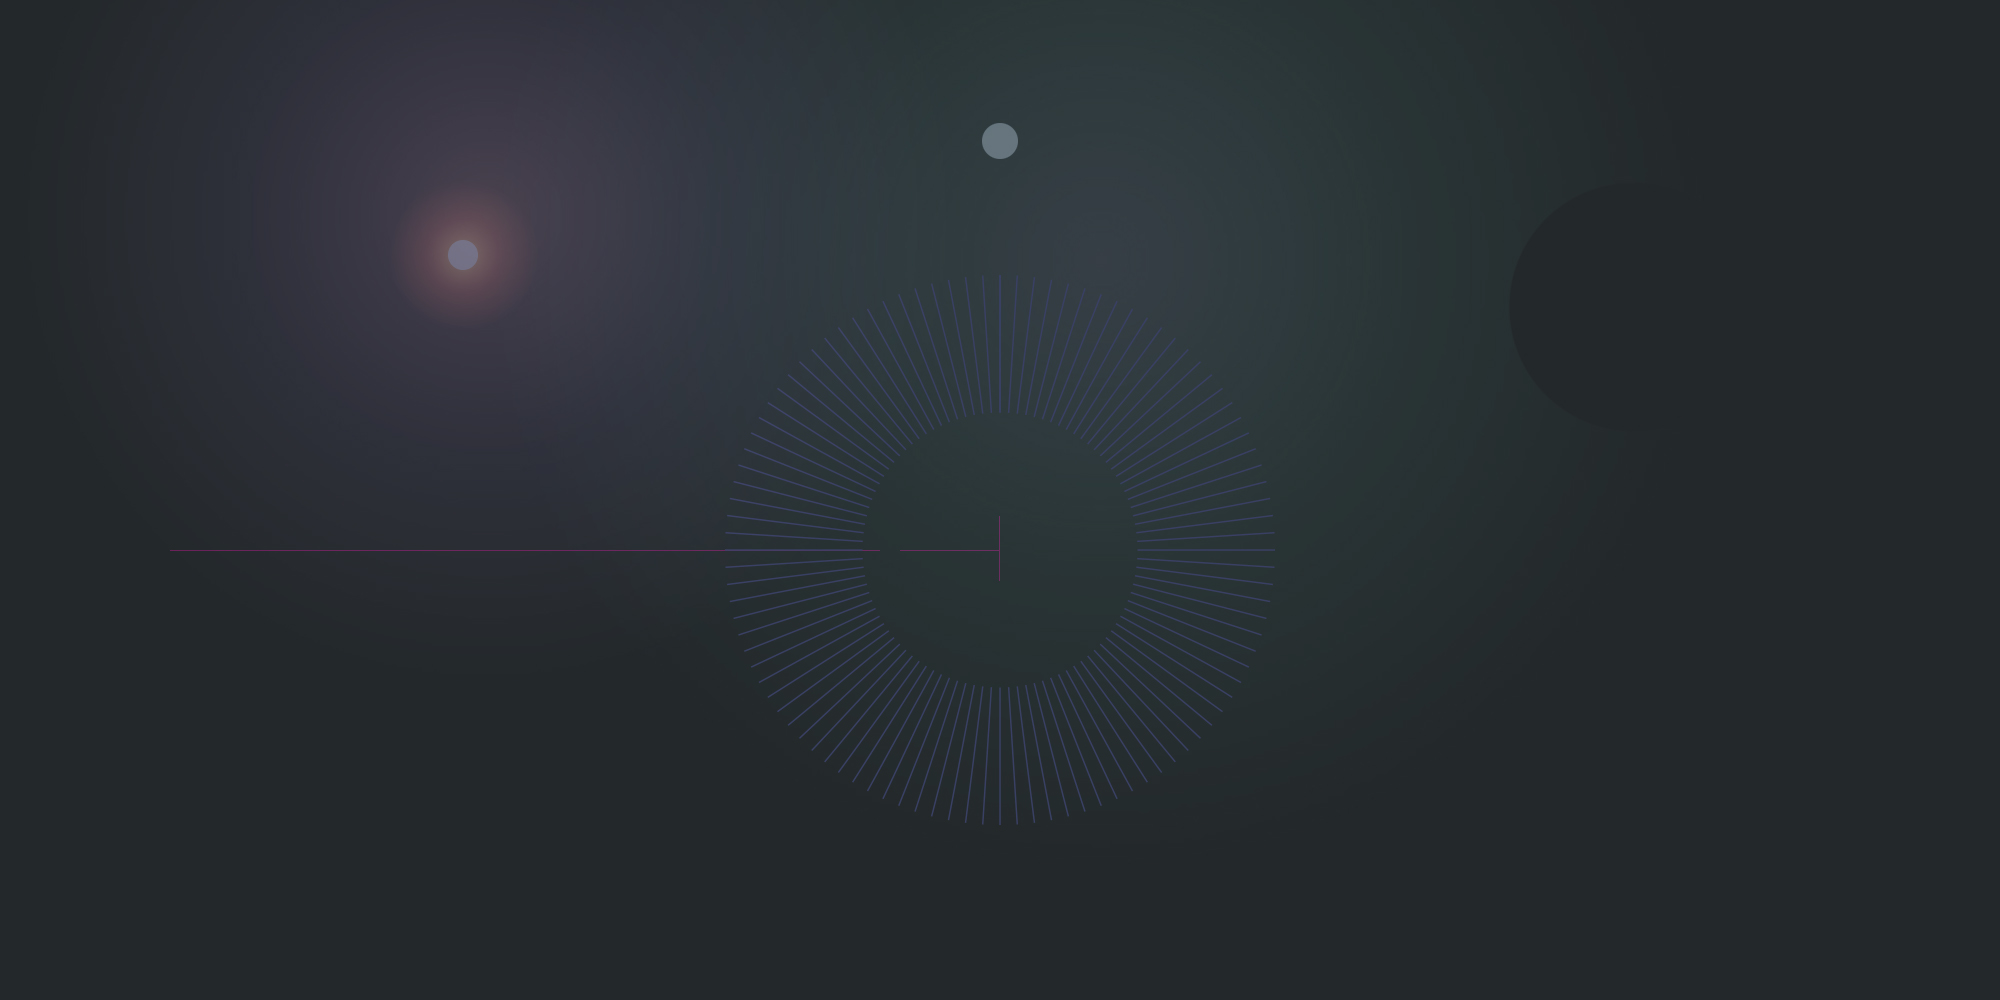
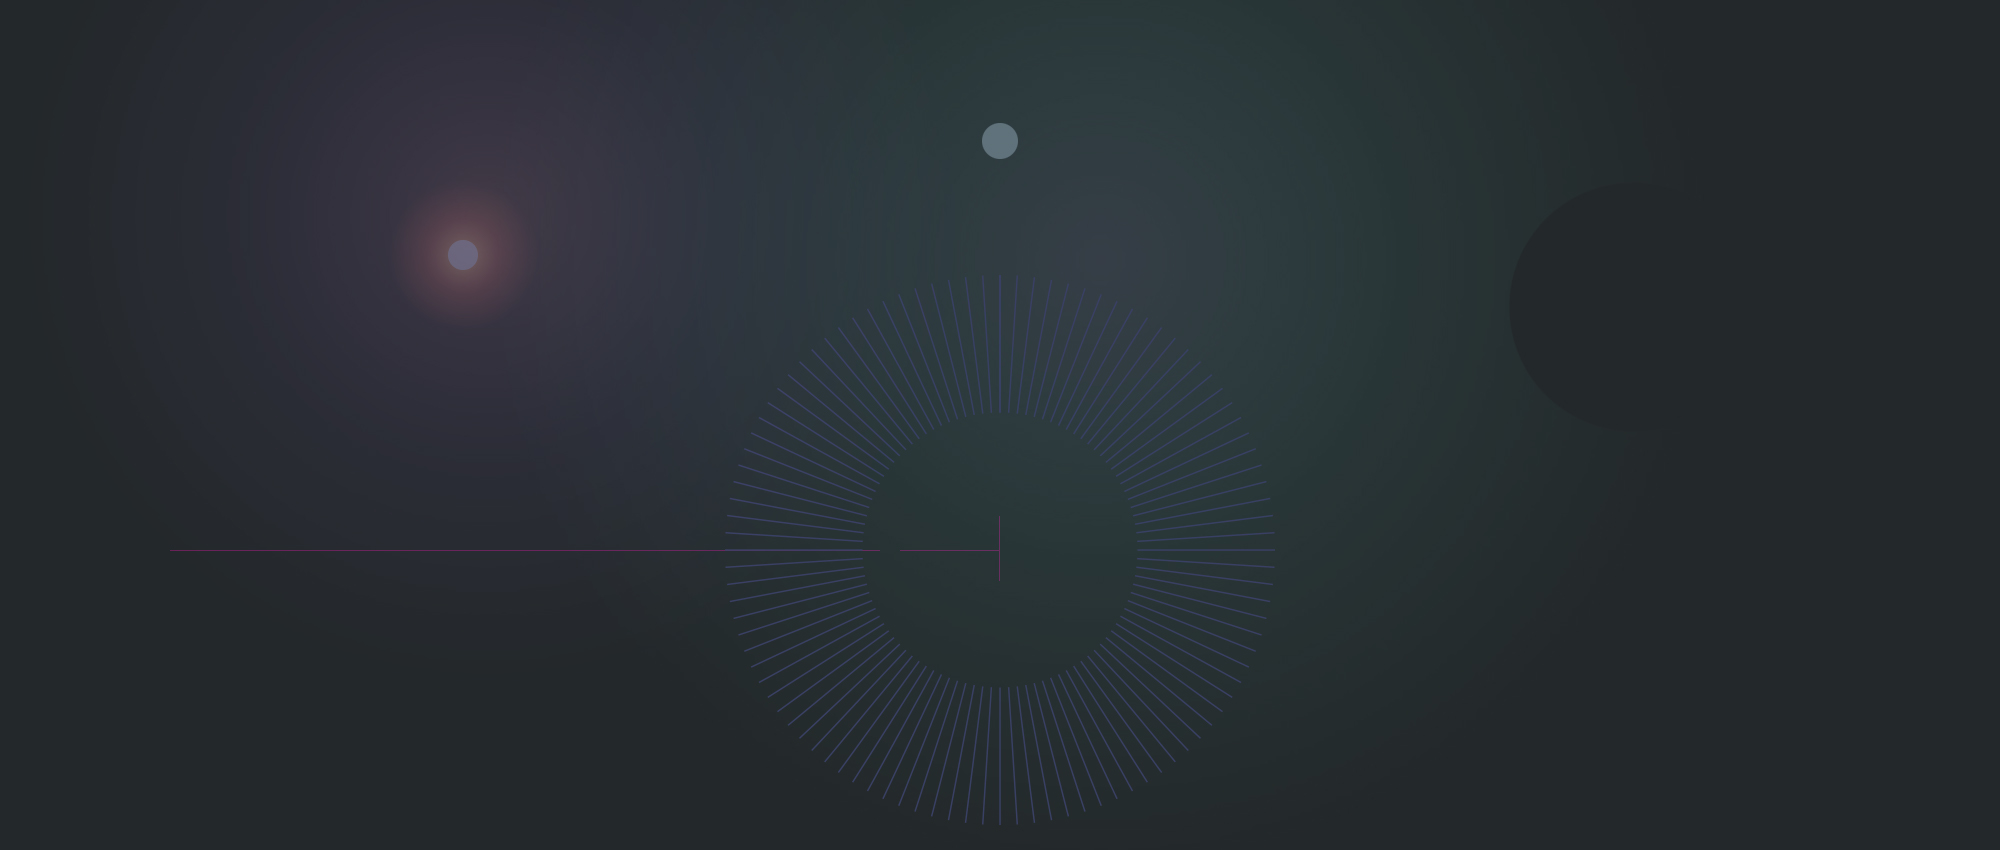
Header Img is adapted to mobile devices

Changed region(s): [[0.372, 0.3365, 0.62, 0.9482], [0.217, 0.1835, 0.248, 0.3671], [0.465, 0.1224, 0.527, 0.1835]]

diff --git a/src/docs/ui/IntroView.tsx b/src/docs/ui/IntroView.tsx
@@ -32,14 +32,14 @@ function useWindowPosition(limit: number = -1): number {
 }
 
 export const IntroView = observer(() => {
+  const SCROLL_POS_LIMIT = 400
   const {app} = useDocsContext()
-  const scrollPosition = useWindowPosition(400)
+  const scrollPosition = useWindowPosition(SCROLL_POS_LIMIT)
   console.log("new IntroView, scrollPosition: ", scrollPosition)
 
   const bgColor = app.theme.appBg + "99"
 
-  return <VStack className="introViewCont"
-                 maxWidth="100%"
+  return <VStack maxWidth="100%"
                  width="100%"
                  height="100%"
                  halign="center"
@@ -50,11 +50,12 @@ export const IntroView = observer(() => {
 
     <Image src={app.theme.isDark ? "/headerBg.jpg" : "/headerBg-light.jpg"}
            maxWidth="100%"
+           visible={app.size === AppSize.L || app.size === AppSize.M}
            disableHorizontalScroll
            halign="center" valign="top"
-           top={scrollPosition > 400 ? "400px" : "0"}
-           absolute={scrollPosition > 400}
-           fixed={scrollPosition <= 400}/>
+           top={scrollPosition > SCROLL_POS_LIMIT ? SCROLL_POS_LIMIT + "px" : "0"}
+           absolute={scrollPosition > SCROLL_POS_LIMIT}
+           fixed={scrollPosition <= SCROLL_POS_LIMIT}/>
 
     <Header width="100%"
             height="50px"
@@ -71,6 +72,13 @@ export const IntroView = observer(() => {
                   onClick={() => app.switchTheme()}/>
     </StylableContainer>
 
+    <Image src={app.theme.isDark ? "/headerBg.jpg" : "/headerBg-light.jpg"}
+           maxWidth="100%"
+           width="100%"
+           visible={app.size === AppSize.XS || app.size === AppSize.S}
+           disableScroll
+           halign="center" valign="top"/>
+
     <Label className="mono"
            whiteSpace="pre"
            padding="30px"
@@ -79,8 +87,7 @@ export const IntroView = observer(() => {
            bgColor={bgColor}
            layer={LayoutLayer.ONE}/>
 
-
-    <Label className={app.theme.isDark ? "ibm h2" : "ibm h2 light"}
+    <Label className={app.theme.isDark ? app.size === AppSize.XS ? "ibm h3" : "ibm h2" : app.size === AppSize.XS ? "ibm h3 light" : "ibm h2 light"}
            whiteSpace="pre"
            paddingVertical="30px"
            layer={LayoutLayer.ONE}>
@@ -96,7 +103,7 @@ export const IntroView = observer(() => {
       }
     </Label>
 
-    <Spacer height="250px"/>
+    <Spacer visible={app.size === AppSize.L || app.size === AppSize.M} height="250px"/>
 
     <VStack halign="stretch"
             valign="top"
@@ -130,7 +137,7 @@ const aboutTxt = `/***
 *   Designed by developers for developers               *   ======================== 
 *   This is a web-solution, that enables you to make    *   MODE  |  VER   |  DATE
 *   notes using a markdown-editor. Markdown helps       *   –––––––––––––––––––––––– 
-*   to format notes and code fragments easily without   *   demo  |  2.10  |  2023  
+*   to format notes and code fragments easily without   *   demo  |  2.11  |  2023  
 *   having to write a plane text or HTML tags.          *   ======================== 
 *                                                       *
 ***/
@@ -146,7 +153,7 @@ const aboutTxtXS = `/***
 *  or HTML tags.
 *
 *  –––––––––––––––––––––––––––––––––––––––––
-*  MODE: demo  |  VER: 2.10  |  DATE: 2023  
+*  MODE: demo  |  VER: 2.11  |  DATE: 2023  
 *  –––––––––––––––––––––––––––––––––––––––––
 *
 ***/

diff --git a/src/docs/application/NoCSS.tsx b/src/docs/application/NoCSS.tsx
@@ -175,6 +175,7 @@ const RuleBuilder = ():[()=>void, { [key: string]: (value:any)=>void }, ()=>stri
   operator["absolute"] = (value:boolean) => {value && setValue("position", "absolute")}
   operator["relative"] = (value:boolean) => {value && setValue("position", "relative")}
   operator["enableOwnScroller"] = (value:boolean) => {value && setValue("overflow", "auto")}
+  operator["disableScroll"] = (value:boolean) => {value && setValue("overflow", "hidden")}
   operator["disableHorizontalScroll"] = (value:boolean) => {value && setValue("overflow-x", "hidden")}
   operator["disabled"] = (value:boolean) => {value && setValue("cursor", "not-allowed")}
 
@@ -309,6 +310,7 @@ export interface StylableComponentProps {
   absolute?: boolean,
   relative?: boolean,
   enableOwnScroller?: boolean,
+  disableScroll?: boolean,
   disableHorizontalScroll?: boolean,
   disabled?: boolean,
   layer?: LayoutLayer,

diff --git a/src/docs/application/NoCSSComponents.tsx b/src/docs/application/NoCSSComponents.tsx
@@ -591,10 +591,17 @@ interface ImageProps extends StackProps {
 }
 
 export const Image = (props: ImageProps) => {
+  if (props.hasOwnProperty("visible") && !props.visible) return <></>
   const className = props.hasOwnProperty("className") ? props.className + " " + buildClassName(props) : buildClassName(props)
+
+  const imgClassName = buildClassName({
+    width: props.width,
+    height: props.height,
+  } as StylableComponentProps)
+
   return (
     <HStack className={className} valign={props.valign} halign={props.halign}>
-      <img src={props.src}/>
+      <img className={imgClassName} src={props.src}/>
     </HStack>
   )
 }

diff --git a/src/docs/ui/common/Spacer.tsx b/src/docs/ui/common/Spacer.tsx
@@ -1,6 +1,6 @@
 import {buildClassName} from "../../application/NoCSS";
 
-export const Spacer = ({width, height}:{width?:string, height?:string})=> {
+export const Spacer = ({width, height, visible=true}:{width?:string, height?:string, visible?:boolean})=> {
   const style = {
     width: width,
     maxWidth: width,
@@ -9,6 +9,8 @@ export const Spacer = ({width, height}:{width?:string, height?:string})=> {
     maxHeight: height,
     minHeight: height,
   }
+
+  if(!visible) return <></>
 
   return <div className={"spacer " + buildClassName(style)}/>
 }

diff --git a/src/index.css b/src/index.css
@@ -54,8 +54,6 @@ html {
   color-scheme: light;
   scroll-behavior: smooth;
   font-size: 16px;
-  max-width: 100%;
-  overflow-x: hidden;
 }
 
 @media screen and (max-width: 1000px) {
@@ -86,7 +84,6 @@ body {
   max-width: 100%;
   overflow-x: hidden;
   overflow-y: scroll;
-  -ms-overflow-style: none;
 }
 
 body, p, a, h1, h2, h3, blockquote {
@@ -176,9 +173,6 @@ hr {
 /******************************/
 /*--------- LAYOUT -----------*/
 /******************************/
-.header {
-  z-index: 1;
-}
 
 div.appLayout.S {
   background-color: #eff901;
